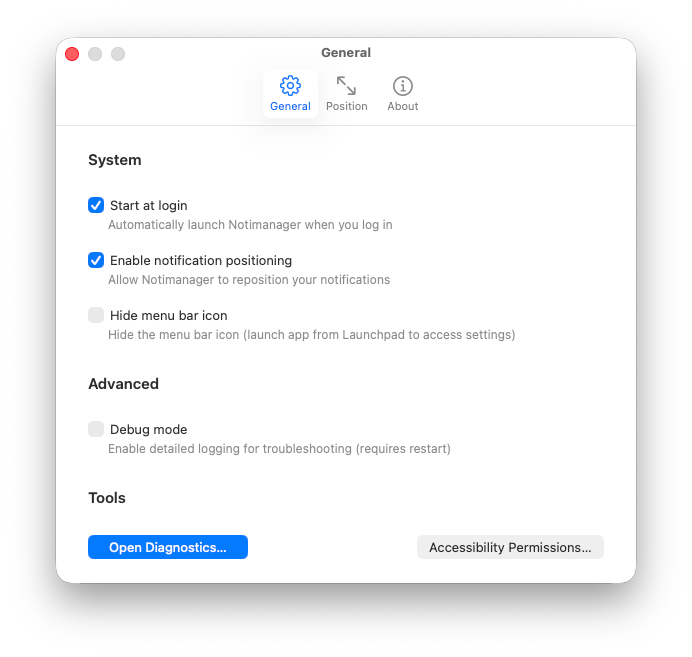
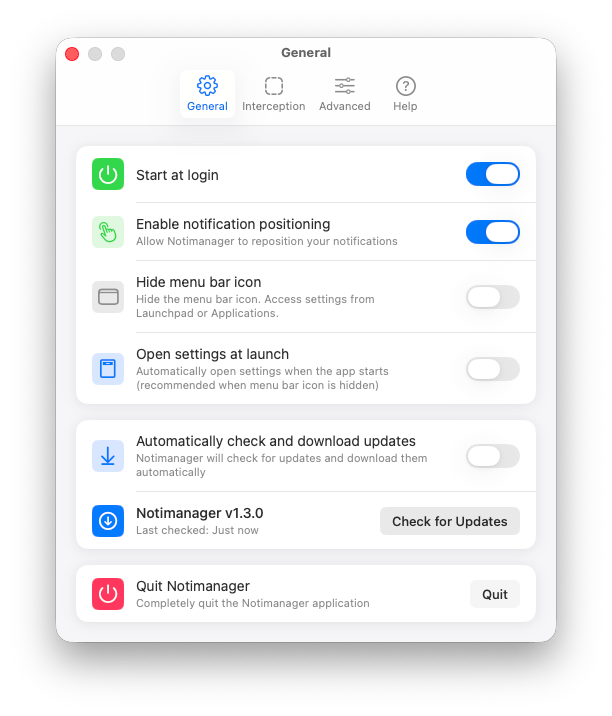
docs: update README and installation documentation
- Simplify README with clearer structure
- Update installation instructions
- Add new screenshots for SwiftUI settings
- Update how-it-works diagram

diff --git a/README.md b/README.md
@@ -1,250 +1,58 @@
 # Notimanager
 
-Take control of your notification experience on macOS.
+**Take control of your macOS notifications.**
 
-![How Notimanager Works](docs/art/how-it-works.png)
+Notimanager gives you the power to decide where notifications appear on your screen. No more blocking your browser tabs, game HUDs, or important tools in the top-right corner.
 
-## Features
+![Notimanager Demo](docs/art/how-it-works.png)
 
-- **4 Corner Positions**: Place notifications in any corner of your screen (top-left, top-right, bottom-left, bottom-right)
-- **Menu Bar Control**: Quick access to settings and position changes right from your menu bar
-- **Launch at Login**: Optional auto-start for seamless integration
-- **Test Notifications**: Verify your setup works with a single click
-- **Beautiful UI**: Liquid glass design with golden ratio spacing for a modern aesthetic
+<p align="center">
+  <a href="https://github.com/abd3lraouf/Notimanager/releases/latest">
+    <img src="https://img.shields.io/badge/Download-macOS_Universal-blue?style=for-the-badge&logo=apple&logoColor=white" alt="Download for macOS" height="40">
+  </a>
+</p>
 
-## Requirements
+## ✨ Features
 
-- macOS 14.0 (Sonoma) or later
+- **Corner Control**: Move notifications to any of the 4 corners (Top-Left, Bottom-Left, Bottom-Right, or back to Top-Right).
+- **Distraction Free**: Hide the menu bar icon for a completely invisible experience.
+- **Native Design**: Built with SwiftUI to look and feel right at home on macOS.
+- **Lightweight**: Uses negligible system resources.
+- **Keyboard Friendly**: Fast access via menu bar shortcuts.
 
-## Installation
+![Menu Bar](docs/art/menu-bar.png)
 
-### 📥 Download Release
+## 📸 Screenshots
 
-[![Latest Release](https://img.shields.io/github/v/release/abd3lraouf/Notimanager)](https://github.com/abd3lraouf/Notimanager/releases/latest)
-[![Downloads](https://img.shields.io/github/downloads/abd3lraouf/Notimanager/total)](https://github.com/abd3lraouf/Notimanager/releases)
+| Position Control | Settings |
+|------------------|----------|
+| ![Position](docs/art/settings-position.png) | ![Settings](docs/art/settings-general.png) |
 
-**DMG Installer (Recommended):**
-1. Download `Notimanager-macOS.dmg` from [GitHub Releases](https://github.com/abd3lraouf/Notimanager/releases)
-2. Open the DMG and drag Notimanager to Applications
-3. Launch and grant Accessibility permissions
+## 📥 Installation
 
-**ZIP Archive:**
-1. Download `Notimanager-macOS.zip`
-2. Extract and run: `xattr -cr Downloads/Notimanager.app`
-3. Move to Applications: `mv Downloads/Notimanager.app /Applications/`
+1. **[Download the latest DMG](https://github.com/abd3lraouf/Notimanager/releases/latest)**.
+2. Drag **Notimanager** to your **Applications** folder.
+3. Open the app and follow the prompt to grant **Accessibility Permissions** (required to move notification windows).
 
-For detailed installation instructions and troubleshooting, see [docs/INSTALLATION.md](docs/INSTALLATION.md).
+> **Note**: Notimanager is open-source software signed with a self-signed certificate. You may see a security prompt on first launch. Simply right-click the app and select "Open" to bypass it. [Read more in the Installation Guide](docs/INSTALLATION.md).
 
-> **⚠ Security Notice**: This app is signed with a self-signed certificate for free distribution. You may see security warnings on first launch. See [docs/INSTALLATION.md](docs/INSTALLATION.md) for step-by-step instructions.
+## 🔒 Privacy & Safety
 
-## Usage
+- **Open Source**: The full source code is available here for audit.
+- **No Data Collection**: Notimanager does not collect, store, or transmit any user data.
+- **Offline**: The app runs entirely locally on your machine.
+- **No Sandbox**: Requires exemption from App Sandbox solely to function (moving other apps' windows requires Accessibility API).
 
-### Getting Started
+## 🔗 Resources
 
-1. **Launch Notimanager** from Applications
-2. **Grant Accessibility Permissions** when prompted (required for moving notifications)
-3. **Choose Your Position** from the menu bar icon
-4. **Test It** with "Send Test Notification" to verify your setup
+- **[Installation Guide](docs/INSTALLATION.md)** - Detailed setup instructions.
+- **[Developer Guide](docs/DEVELOPMENT.md)** - Build from source and contribution info.
+- **[Changelog](docs/CHANGELOG.md)** - Version history.
 
-### Position Selection
+---
 
-![Position Settings](docs/art/settings-position.png)
-
-Notimanager offers 4 corner positions for optimal notification placement:
-
-- **Top Left** ⬉ - Notifications appear in the top-left corner
-- **Top Right** ⬈ - Notifications appear in the top-right corner (default)
-- **Bottom Left** ⬋ - Notifications appear in the bottom-left corner
-- **Bottom Right** ⬊ - Notifications appear in the bottom-right corner
-
-### Settings
-
-![General Settings](docs/art/settings-general.png)
-
-Access the settings window from the menu bar icon to configure:
-
-- **Position Selection** - Choose your preferred notification corner
-- **Enable/Disable** - Toggle notification positioning on/off
-- **Launch at Login** - Auto-start Notimanager when you log in
-- **Hide Menu Bar Icon** - Keep Notimanager running without menu bar presence
-
-### Menu Bar Control
-
-![Menu Bar](docs/art/hide-menu-bar.png)
-
-Click the menu bar icon to quickly:
-- Change notification position
-- Enable/disable positioning
-- Send test notifications
-- Access settings
-
-## Building from Source
-
-If you prefer to build from source or want to verify the code:
-
-### Requirements
-
-- macOS 14.0 or later
-- Xcode 15.0 or later
-
-### Steps
-
-1. **Clone the repository**
-   ```bash
-   git clone https://github.com/abd3lraouf/Notimanager.git
-   cd Notimanager
-   ```
-
-2. **Open in Xcode**
-   ```bash
-   open Notimanager.xcodeproj
-   ```
-
-3. **Build and run**
-   - Press `⌘R` to build and run in development mode
-   - For release builds, select **Product → Archive** → **Distribute App** → **Copy App**
-
-### Self-Signed Certificate
-
-To create release builds with code signing, use the provided script:
-
-```bash
-./scripts/create-self-signed-cert.sh
-```
-
-This creates a self-signed certificate for local development and distribution.
-
-### Build Script
-
-Use the provided build script for streamlined development and releases:
-
-```bash
-# Show all commands
-./scripts/build.sh help
-
-# Run full release pipeline
-./scripts/build.sh all
-
-# Prepare for release (interactive)
-./scripts/build.sh prepare
-
-# Individual steps
-./scripts/build.sh build     # Development build
-./scripts/build.sh test      # Run tests
-./scripts/build.sh clean     # Clean artifacts
-./scripts/build.sh archive   # Create Xcode archive
-./scripts/build.sh export    # Export app bundle
-./scripts/build.sh zip       # Create ZIP distribution
-./scripts/build.sh dmg       # Create DMG distribution
-```
-
-The build script handles:
-- Xcode version selection
-- Code signing with self-signed certificate
-- Archive creation and export
-- ZIP and DMG distribution (using create-dmg)
-- Test execution
-
-**Note:** DMG creation requires Node.js 18+ (automatically uses npx if needed).
-
-### CI/CD Setup
-
-For automated releases via GitHub Actions:
-
-```bash
-# Setup CI/CD (one-time setup)
-./scripts/setup-ci.sh
-
-# This will:
-# 1. Verify/create self-signed certificate
-# 2. Export to P12 format
-# 3. Encode to base64
-# 4. Display instructions for GitHub Secrets
-```
-
-Add these secrets to your GitHub repository:
-- `SELF_SIGNED_CERTIFICATE` - Base64 encoded certificate
-- `CERTIFICATE_PASSWORD` - Certificate password (default: `notimanager`)
-
-See [docs/CICD_SETUP.md](docs/CICD_SETUP.md) for detailed CI/CD configuration.
-
-## Development
-
-### Running Tests
-
-```bash
-# Run all tests
-xcodebuild test -scheme NotimanagerTests -destination 'platform=macOS'
-
-# Run specific test suites
-xcodebuild test -scheme NotimanagerTests -destination 'platform=macOS' \
-  -only-testing:NotimanagerTests/Unit
-xcodebuild test -scheme NotimanagerTests -destination 'platform=macOS' \
-  -only-testing:NotimanagerTests/UI
-```
-
-### Project Structure
-
-```
-Notimanager/
-├── Notimanager/              # Main app source
-│   ├── Components/          # Reusable UI components
-│   ├── Coordinators/        # App coordination and lifecycle
-│   ├── Managers/            # Core services and managers
-│   ├── Models/              # Data models
-│   ├── Protocols/           # Protocol definitions
-│   ├── Resources/           # Assets and resources
-│   ├── Utils/               # Utility functions
-│   ├── ViewModels/          # View model layer
-│   └── Views/               # UI views and controllers
-├── NotimanagerTests/        # Test suites
-├── docs/                    # Documentation
-└── scripts/                 # Build and utility scripts
-```
-
-## Permissions
-
-Notimanager requires the following permission:
-
-- **Accessibility**: Required to detect and move notification windows. The app cannot function without this permission.
-
-The app:
-- Does NOT have App Sandbox enabled (required for accessibility features)
-- Does NOT collect or transmit any data
-- Does NOT make network connections
-- Runs entirely locally on your Mac
-
-## Debugging
-
-If notifications aren't moving:
-
-1. **Check permissions**: System Settings → Privacy & Security → Accessibility
-2. **Toggle the permission**: Turn it off, wait 2 seconds, turn it back on
-3. **Restart the app**: Quit and relaunch Notimanager
-4. **Check logs**: Open Console.app and filter by `dev.abd3lraouf.notimanager`
-
-For more troubleshooting help, see [docs/INSTALLATION.md](docs/INSTALLATION.md).
-
-## Changelog
-
-See [docs/CHANGELOG.md](docs/CHANGELOG.md) for a list of changes in each version.
-
-## Contributing
-
-Contributions are welcome! Please feel free to submit issues and pull requests.
-
-1. Fork the repository
-2. Create your feature branch (`git checkout -b feature/amazing-feature`)
-3. Commit your changes (`git commit -m 'Add some amazing feature'`)
-4. Push to the branch (`git push origin feature/amazing-feature`)
-5. Open a Pull Request
-
-## License
-
-© 2026 Abdelraouf Sabri. All rights reserved.
-
-## Support
-
-- 🐛 [Report Issues](https://github.com/abd3lraouf/Notimanager/issues)
-- 💡 [Request Features](https://github.com/abd3lraouf/Notimanager/issues)
-- 📖 [Documentation](docs/)
+<p align="center">
+  Made with ❤ for macOS
+  <br>
+  © 2026 Abdelraouf Sabri
+</p>

diff --git a/docs/INSTALLATION.md b/docs/INSTALLATION.md
@@ -100,40 +100,7 @@ This appears because the app uses ad-hoc signing. To bypass:
 
 ## Building from Source
 
-If you prefer to build from source or want to verify the code:
-
-### Requirements
-
-- macOS 14.0 or later
-- Xcode 15.0 or later
-- Command Line Tools for Xcode
-
-### Steps
-
-1. **Clone the repository**:
-   ```bash
-   git clone https://github.com/abd3lraouf/Notimanager.git
-   cd Notimanager
-   ```
-
-2. **Open in Xcode**:
-   ```bash
-   open Notimanager.xcodeproj
-   ```
-
-3. **Build and run**:
-   - Press `⌘R` to build and run in development mode
-   - Or select **Product** → **Archive** for a release build
-
-4. **For a release build**:
-   - Select **Product** → **Archive**
-   - Once complete, click **Distribute App**
-   - Choose **Copy App**
-   - The exported app will be signed with your development certificate
-
-### Self-Signed Certificate for Local Builds
-
-Local builds will use your development certificate automatically. No special setup is required.
+If you prefer to build the app from source code, please refer to the **[Developer Guide](DEVELOPMENT.md)** for detailed instructions.
 
 ## Security & Verification
 
